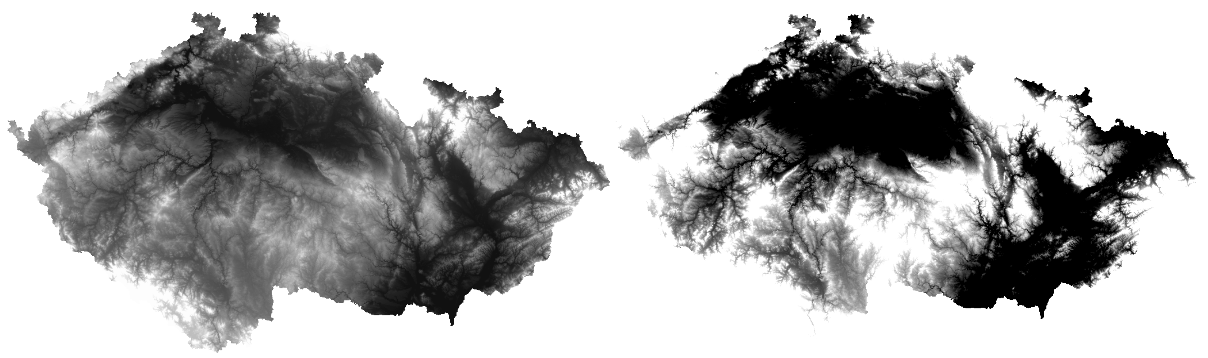
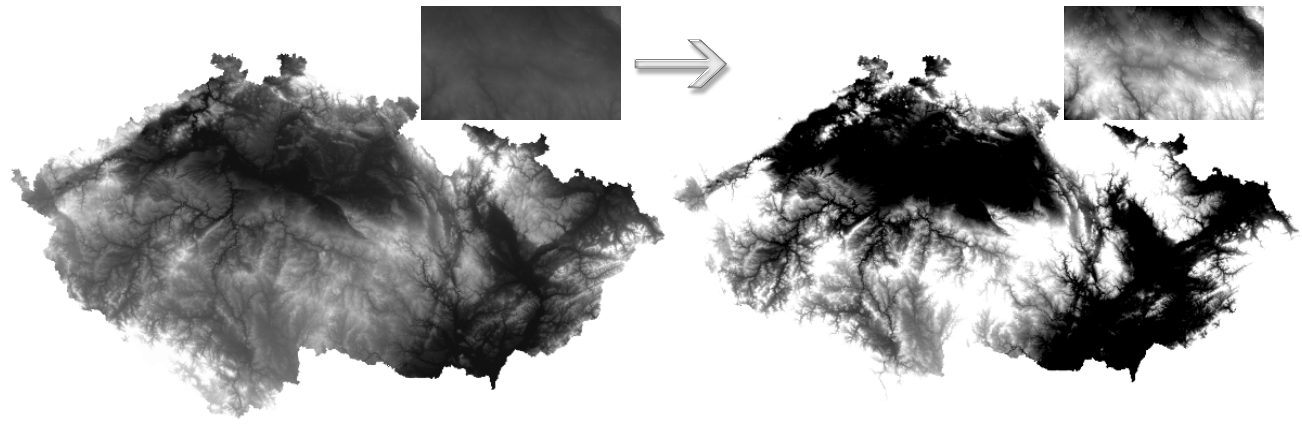
minor changes in raster panel section

diff --git a/raster_prace/raster_data_prace.rst b/raster_prace/raster_data_prace.rst
@@ -65,9 +65,9 @@ Táto záložka slúži na nastavenie farebnosti rastrových dát v mapovom okne
 
        Rôzne štýly tej istej rastovej vrstvy: šedé pásmo (vľavo), pseudofarby (vpravo)
     
-.. note:: Po nastavení  farebnej palety je potrebné nezabudnúť na tlačítko :item:`Klasifikovat`, ktoré  vygeneruje farby pre konkrétny režim. Nastavenie hodnoty smerodajnej odchhýlky dokáže zabezpečiť, aby hodnoty, ktoré sa príliš líšia od priemeru pre vrstvu, neboli zobrazené.
+.. note:: Po nastavení  farebnej palety je potrebné nezabudnúť na tlačítko :item:`Klasifikovat`, ktoré  vygeneruje farby pre konkrétny režim, v našom prípade lineárna farebná interpolácia a invertovaná spojitá paleta *RdYIGn*. Nastavenie hodnoty smerodajnej odchýlky dokáže zabezpečiť, aby hodnoty, ktoré sa príliš líšia od priemeru pre vrstvu, neboli zobrazené.
 
-.. noteadvanced:: Ďalšie možnosti štýlovania ponúka lišta :item:`Raster`, ktorá sa zapína cez :menuselection:`Zobraziť --> Nástrojové lišty --> Raster`. Napríklad prvá položka zľava |mActionLocalCumulativeCutStretch| :sup:`Local Cumulative Cut Stretch` automaticky vylepší kontrast na základe minimálnej a maximálnej hodnoty bunky v aktuálnej lokálnej časti rastra, pričom berie do úvahy východzie limity a odhadnuté hodnoty. Výsledok je na :num:`obr. #stylrstpanel` vľavo. Voľba |mActionFullHistogramStretch| :sup:`Roztiahnuť histogram na celý dataset` nástrojovej lišty vráti zmeny späť ako boli na :num:`obr. #stylraster`, t.j. vyrovná kontrast vzhľadom na celý raster podľa skutočných hodnôt. Ak pravým kliknutím na meno vrstvy zvolíme z kontextového menu :item:`ZOOM na najvhodnejšie merítko (100%)`, klikneme na |mActionLocalCumulativeCutStretch| :sup:`Local Cumulative Cut Stretch` a zvolíme |mIconZoom| :sup:`Priblížiť na vrstvu`, vytvoríme štýl znázornený na :num:`obr. #stylrstpanel` vpravo.
+.. noteadvanced:: Ďalšie možnosti štýlovania ponúka lišta :item:`Raster`, ktorá sa zapína cez :menuselection:`Zobraziť --> Nástrojové lišty --> Raster`. Napríklad prvá položka zľava |mActionLocalCumulativeCutStretch| :sup:`Local Cumulative Cut Stretch` automaticky vylepší kontrast na základe minimálnej a maximálnej hodnoty bunky v aktuálnej lokálnej časti rastra, pričom berie do úvahy východzie limity a odhadnuté hodnoty. Výsledok je na :num:`obr. #stylrstpanel` vľavo. Voľba |mActionFullHistogramStretch| :sup:`Roztiahnuť histogram na celý dataset` nástrojovej lišty vráti zmeny späť ako boli na :num:`obr. #stylraster`, t.j. vyrovná kontrast vzhľadom na celý raster podľa skutočných hodnôt. Ak pravým kliknutím na meno vrstvy zvolíme z kontextového menu :item:`ZOOM na najvhodnejšie merítko (100%)`, klikneme na |mActionLocalCumulativeCutStretch| :sup:`Local Cumulative Cut Stretch` a zvolíme |mIconZoom| :sup:`Priblížiť na vrstvu` čím vytvoríme štýl znázornený na :num:`obr. #stylrstpanel` vpravo.
 
     .. _stylrstpanel:
 
